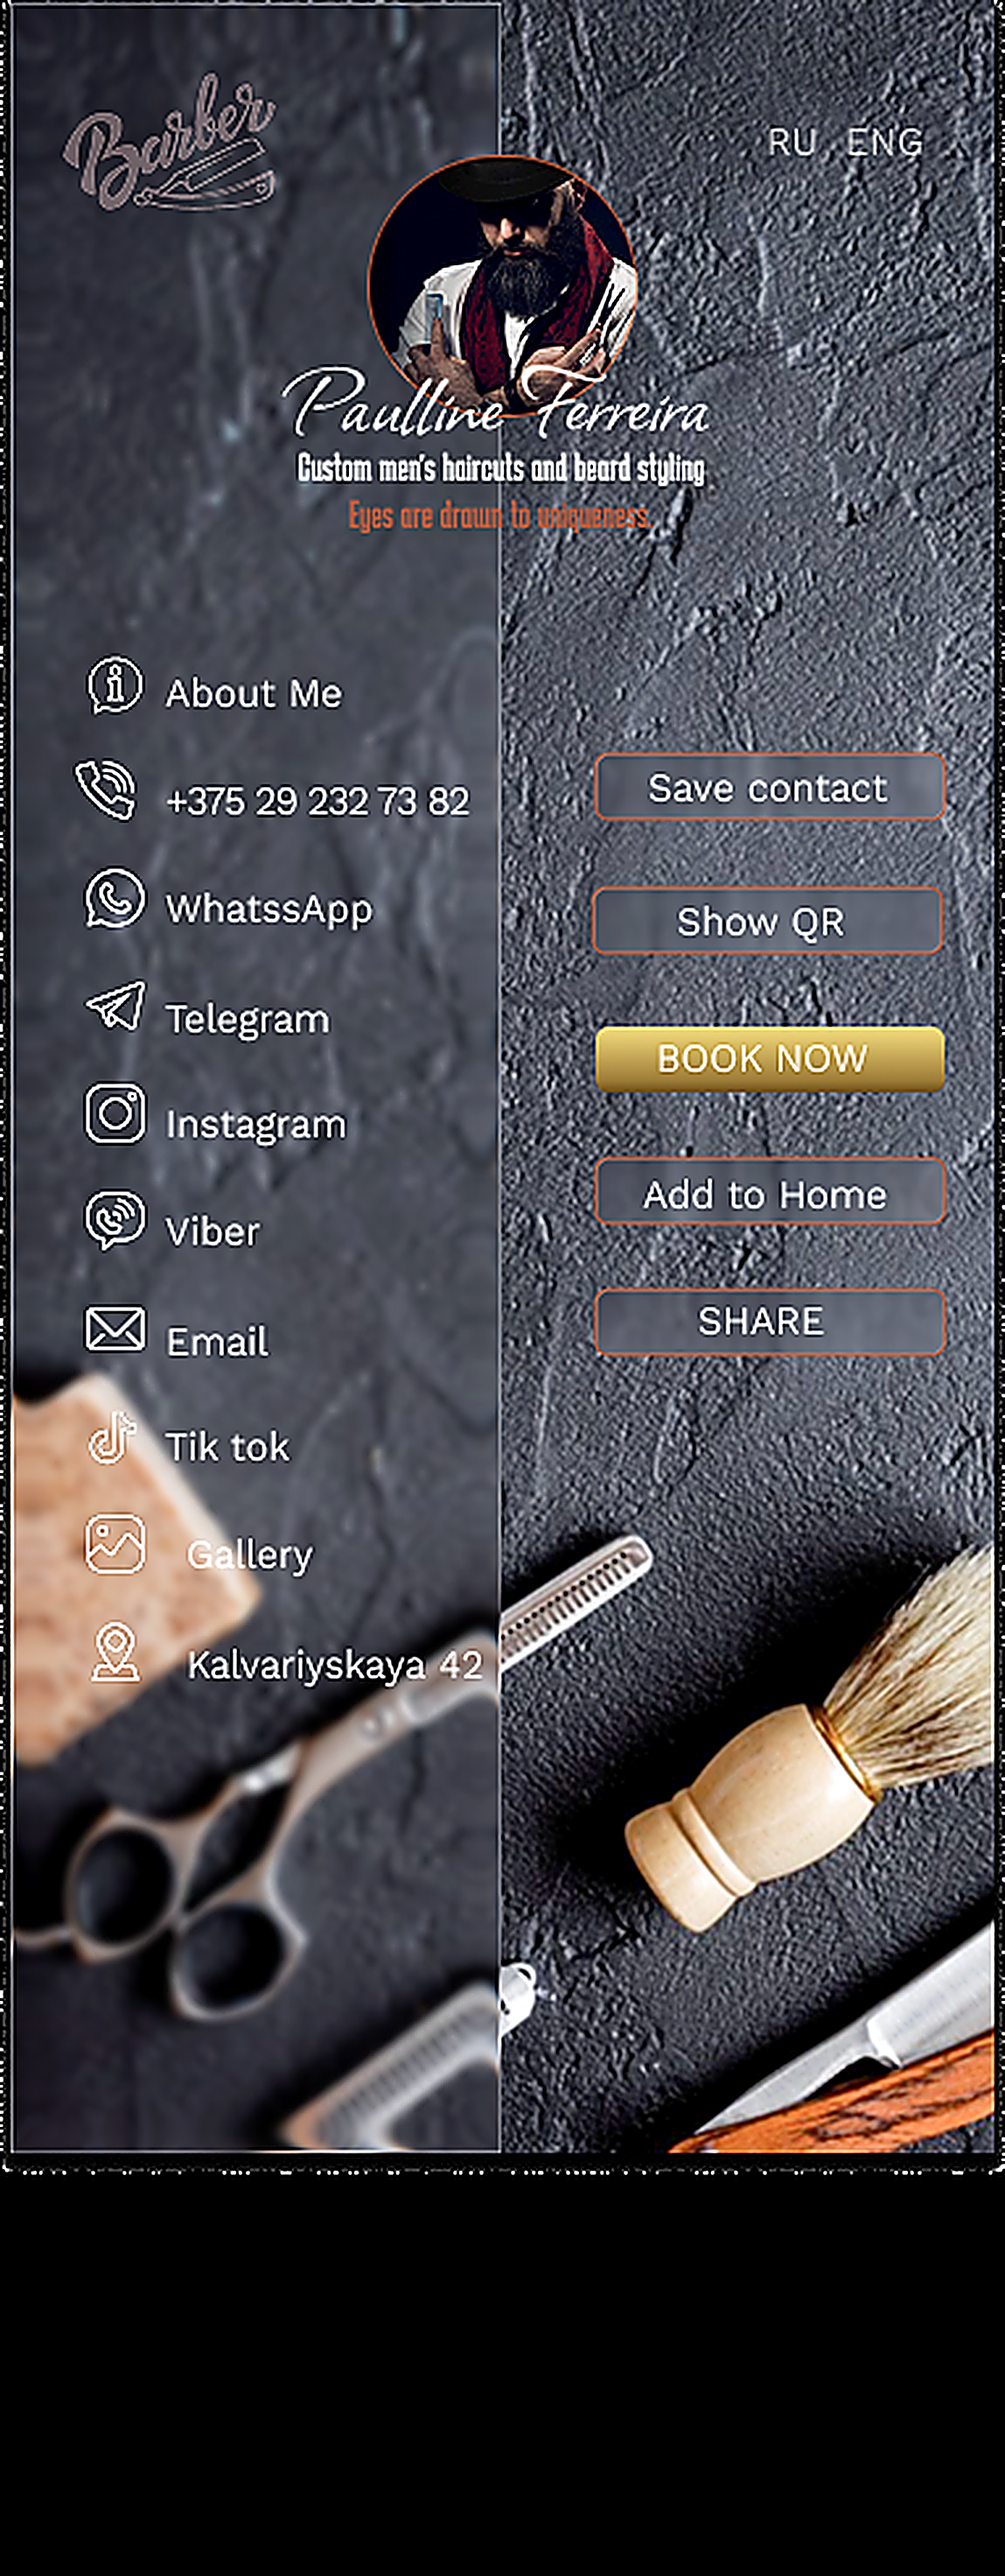
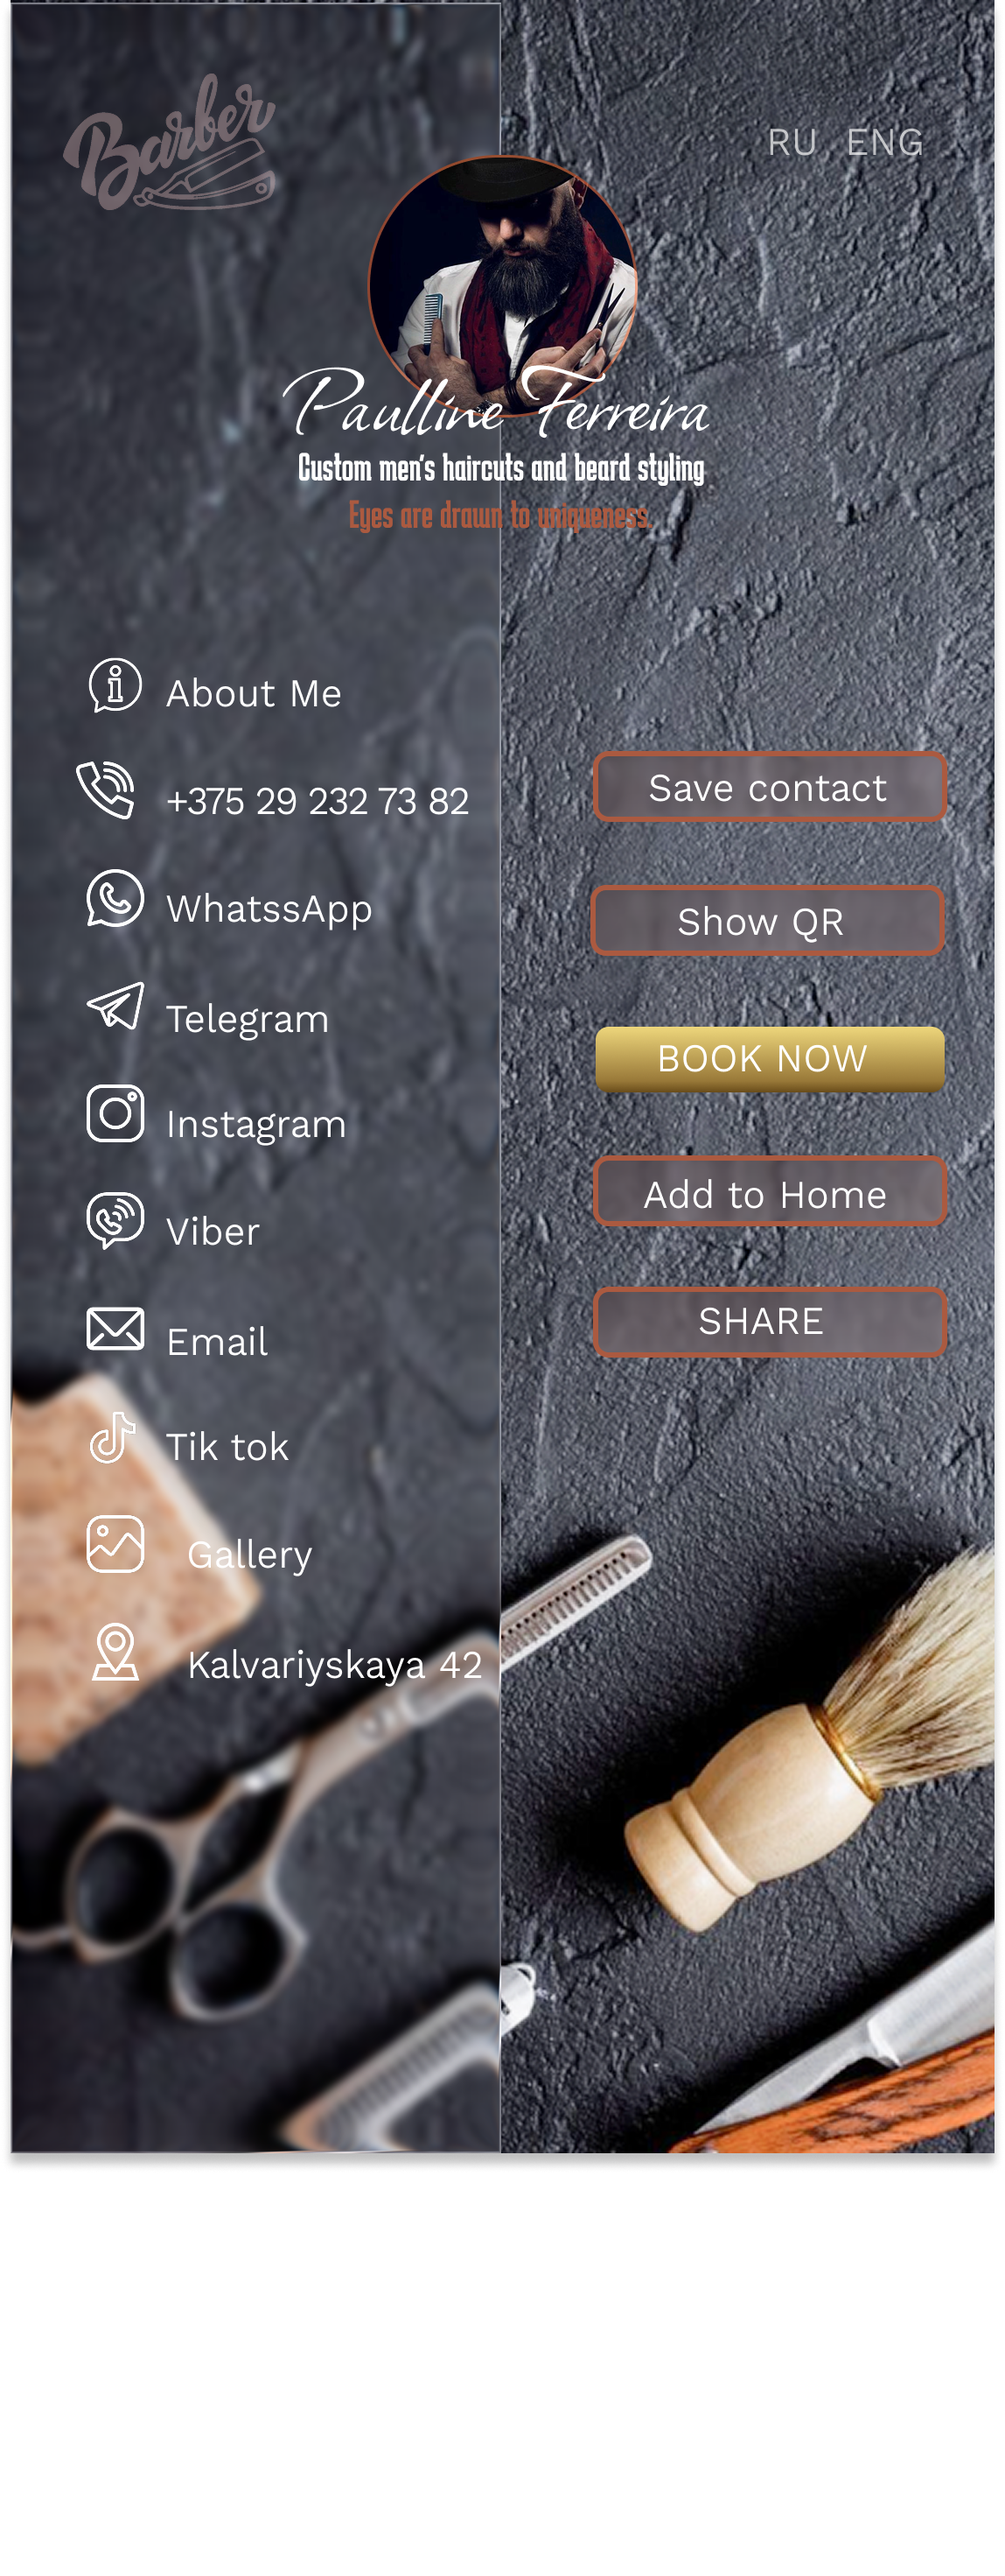
Use Figma-exported 2x/3x PNGs for sharp retina rendering

diff --git a/frontend/src/pages/PublicCard.tsx b/frontend/src/pages/PublicCard.tsx
@@ -242,19 +242,14 @@ export default function PublicCard() {
     <div className="min-h-screen bg-[#0f0f0f] px-2 py-4 text-white">
       <div className="mx-auto w-full max-w-[383px]">
         <div className="home-card-frame relative w-full overflow-hidden">
-          <picture>
-            <source
-              srcSet="/figma/home-3x.png 3x, /figma/home-3x.png 2x"
-              type="image/png"
-            />
-            <img
-              src="/figma/home-from-pdf.png"
-              alt="Business card"
-              className="h-full w-full select-none"
-              draggable={false}
-              style={{ display: 'block' }}
-            />
-          </picture>
+          <img
+            src="/figma/home-from-pdf.png"
+            srcSet="/figma/home-from-pdf.png 1x, /figma/home-2x.png 2x, /figma/home-3x.png 3x"
+            alt="Business card"
+            className="h-full w-full select-none"
+            draggable={false}
+            style={{ display: 'block' }}
+          />
 
           <button
             onClick={() => i18n.changeLanguage('ru')}
